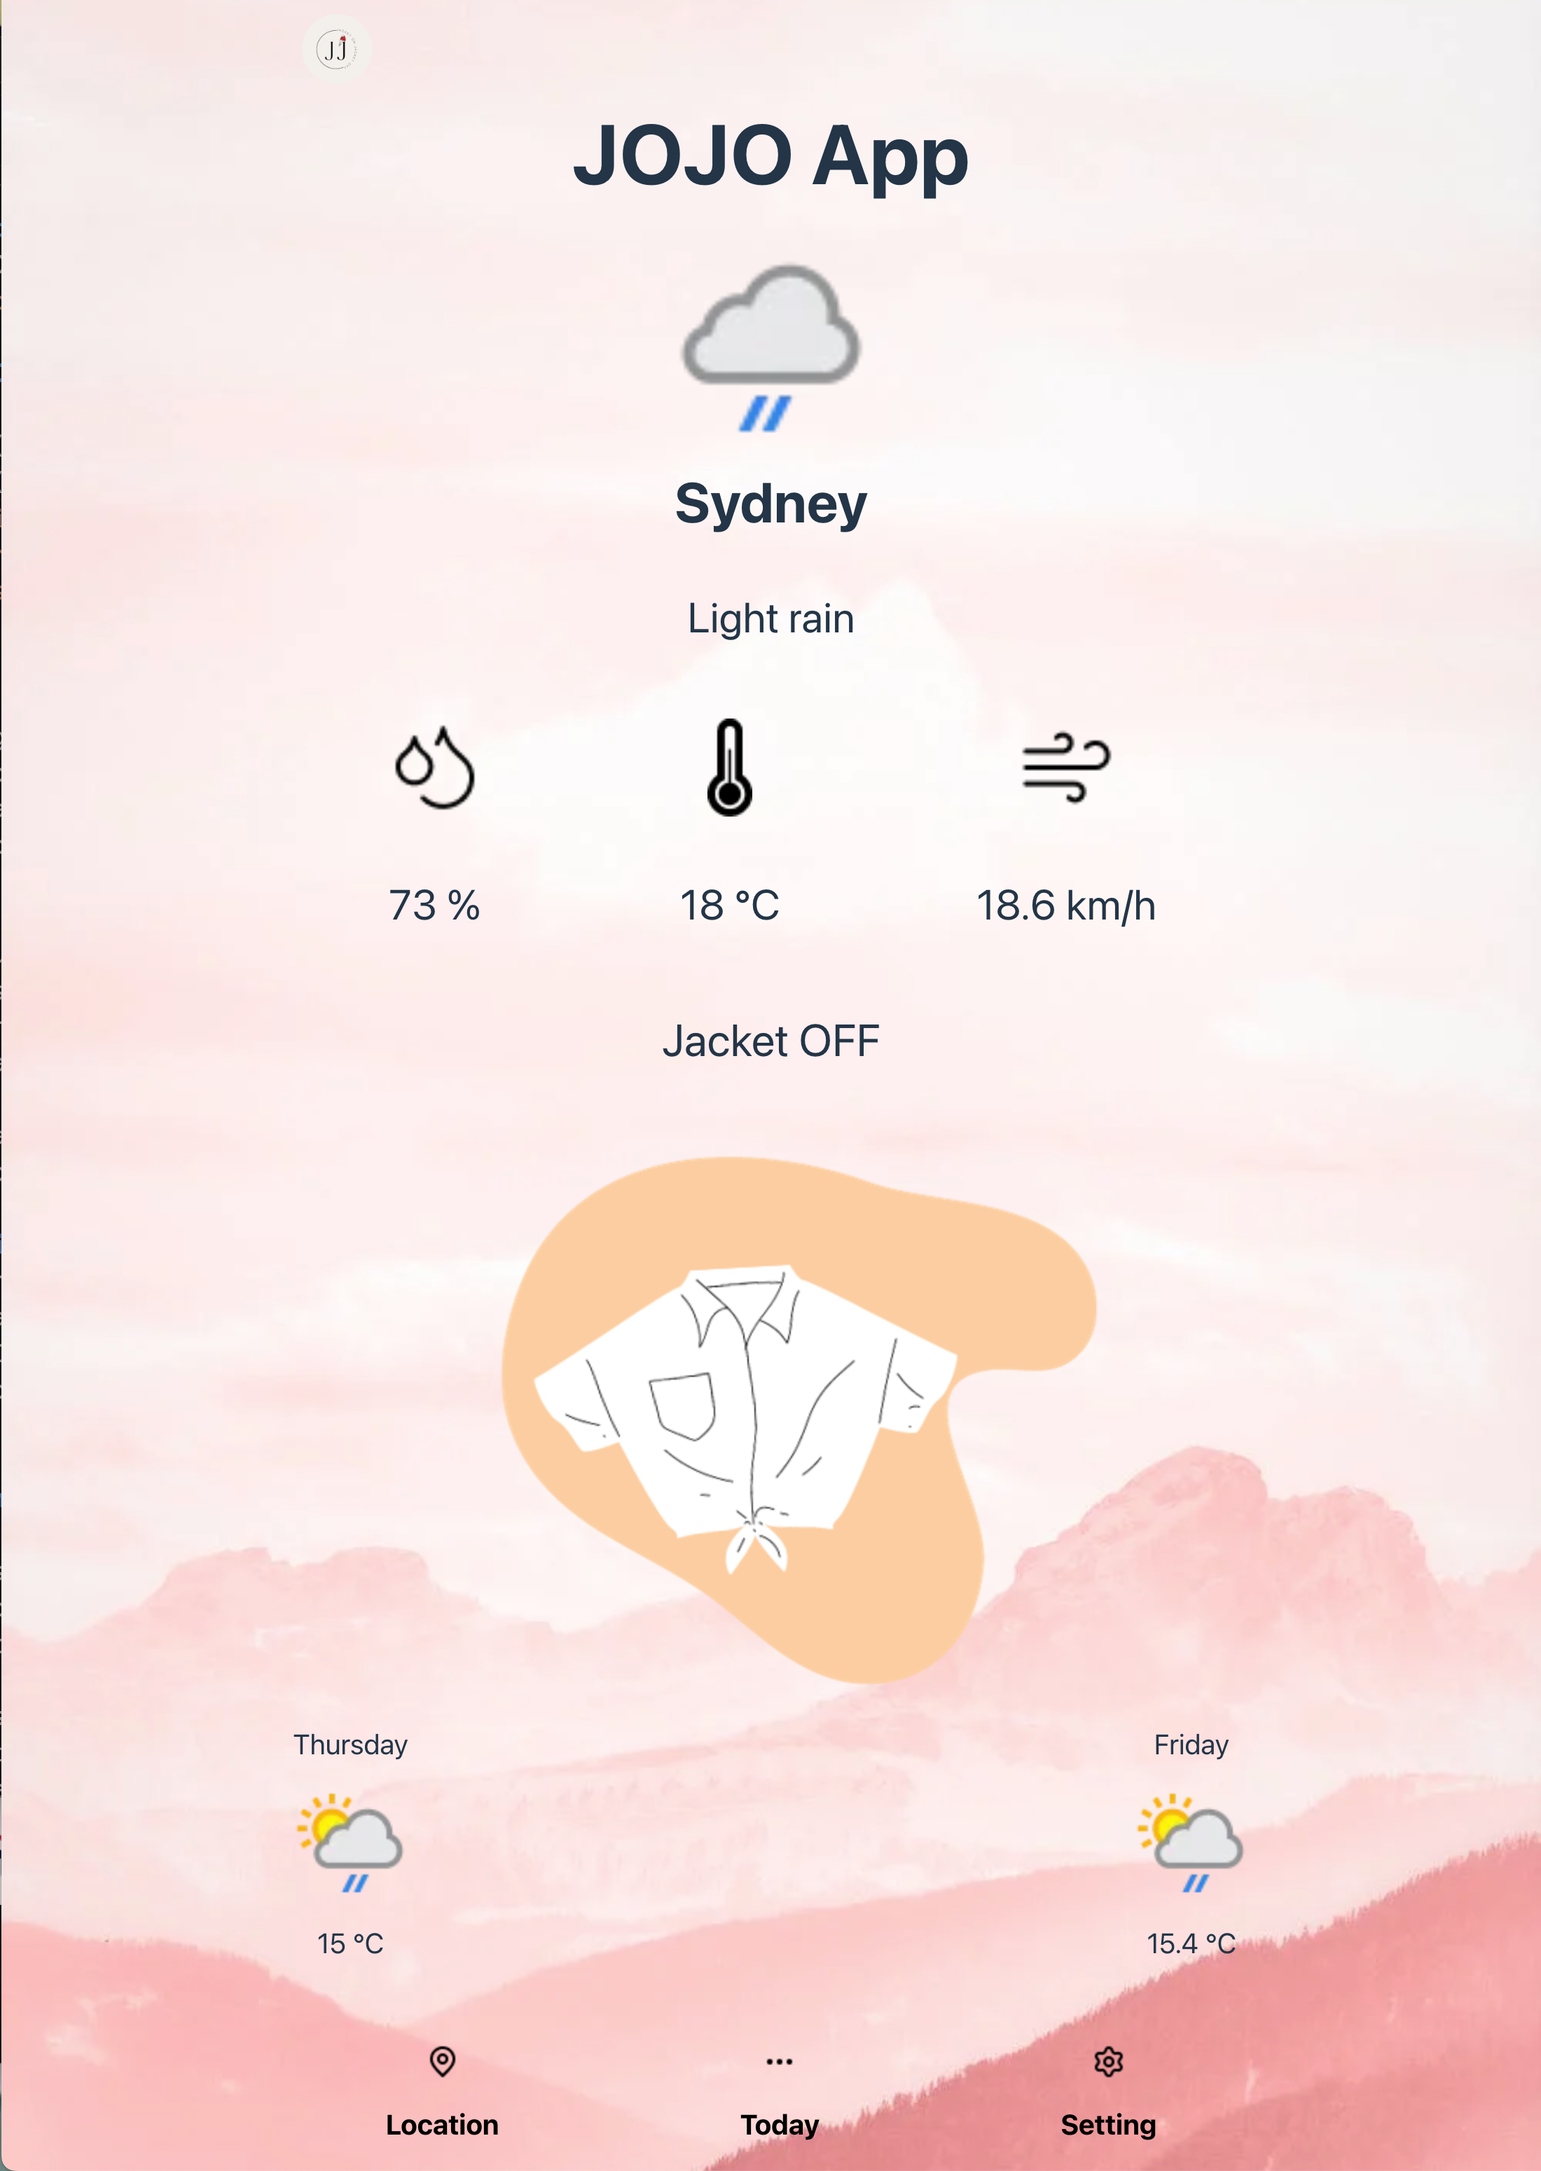
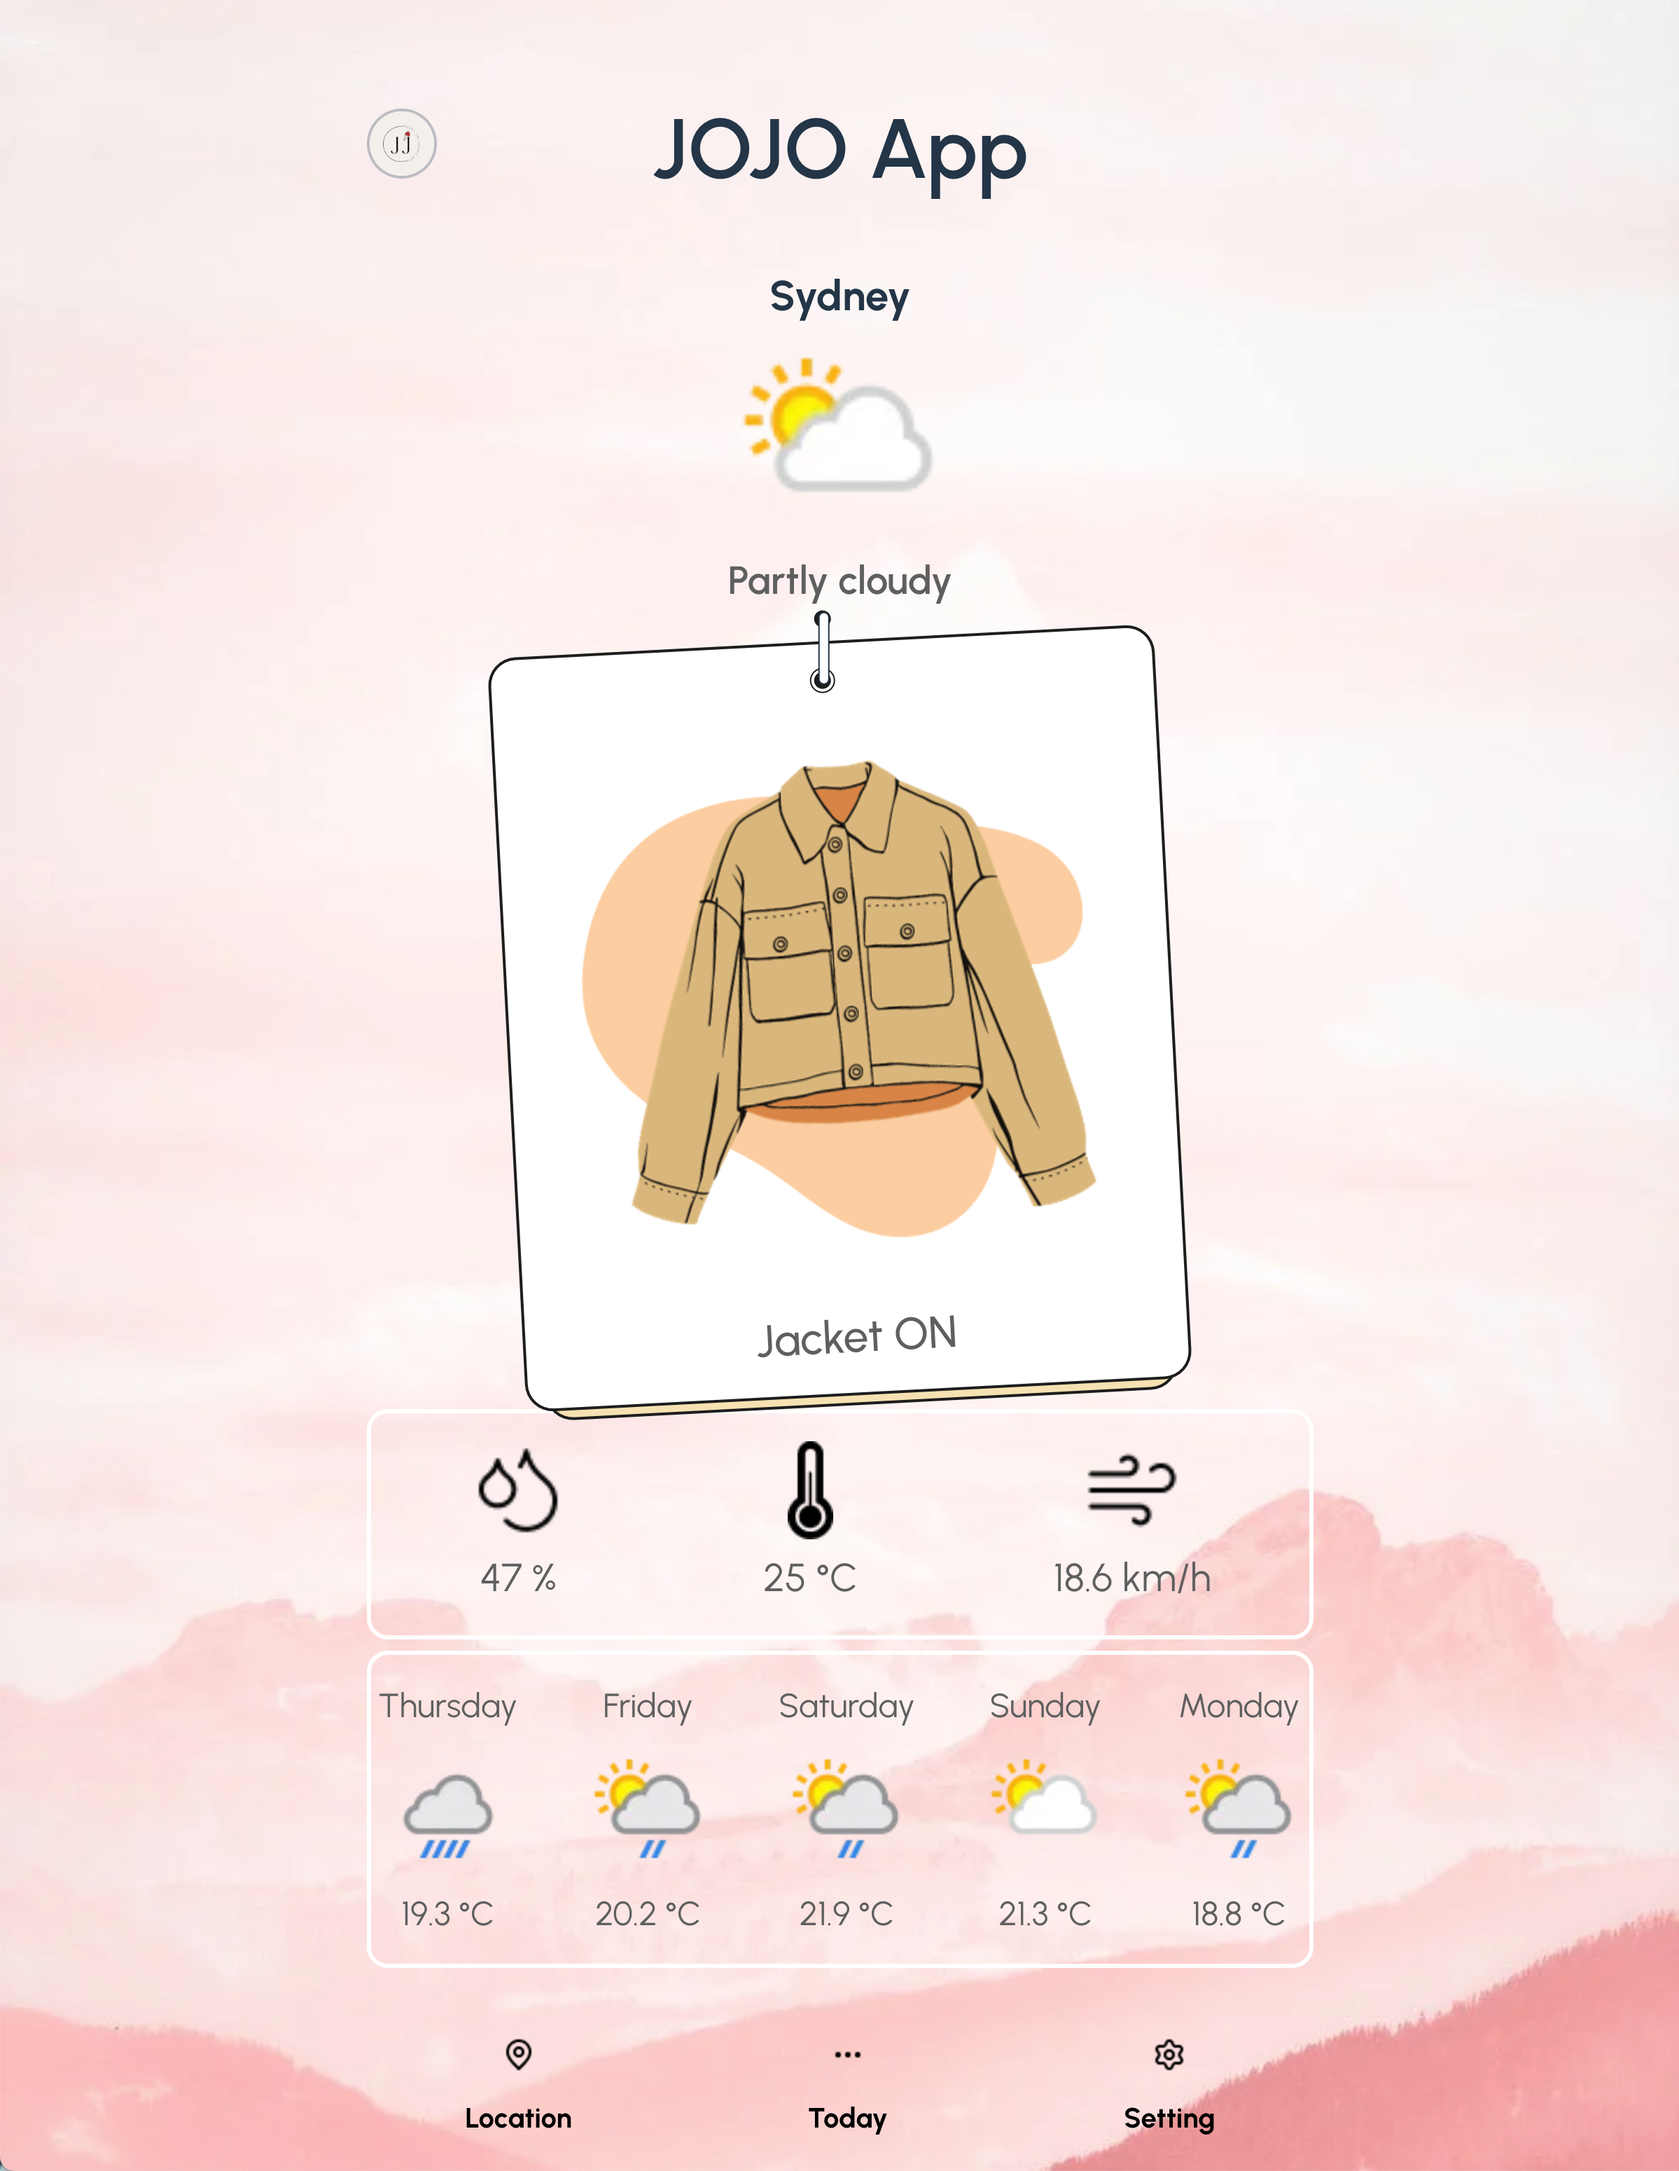
edited README

diff --git a/frontend/src/pages/Today.css b/frontend/src/pages/Today.css
@@ -2,7 +2,7 @@
   display: flex;
   flex-direction: column;
   text-align: center;
-  padding: 2rem;
+  /* padding: 2rem; */
 }
 
 .today-data {
@@ -54,7 +54,7 @@
   display: grid; 
   grid-auto-flow: row dense;
   gap: 1em;
-  grid-template: repeat(4, 1fr) / repeat(3, 1fr);
+  grid-template: repeat(1, 1fr) / repeat(3, 1fr);
 }
 
 .info-card {

diff --git a/frontend/src/pages/Location.css b/frontend/src/pages/Location.css
@@ -2,7 +2,7 @@
   display: flex;
   flex-direction: column;
   text-align: center;
-  padding: 2rem;
+  /* padding: 2rem; */
   backdrop-filter: blur(5px);
 }
 

diff --git a/frontend/src/pages/Search.css b/frontend/src/pages/Search.css
@@ -2,7 +2,7 @@
   display: flex;
   flex-direction: column;
   text-align: center;
-  padding: 2rem;
+  /* padding: 2rem; */
 }
 
 .back-icon img {

diff --git a/frontend/src/pages/Setting.css b/frontend/src/pages/Setting.css
@@ -2,7 +2,7 @@
   display: flex;
   flex-direction: column;
   text-align: center;
-  padding: 2rem;
+  /* padding: 2rem; */
 }
 
 .setting-card {

diff --git a/frontend/src/pages/Alert.css b/frontend/src/pages/Alert.css
@@ -1,7 +1,7 @@
 .alert-section {
   display: flex;
   flex-direction: column;
-  padding: 2rem;
+  /* padding: 2rem; */
 }
 
 .alert-content {

diff --git a/README.md b/README.md
@@ -19,6 +19,10 @@ JOJO is designed to make the decision of wearing a jacket as easy as possible. I
 ### Homepage
 <img width="1328" alt="image" src="frontend/public/homepage.png">
 
+### Manage Location and Search
+<img width="1328" alt="image" src="frontend/public/manage_location.png">
+<img width="1328" alt="image" src="frontend/public/search_location.png">
+
 ### Today-forecast
 <img width="1328" alt="image" src="frontend/public/todayweather.png">
 
@@ -26,6 +30,9 @@ JOJO is designed to make the decision of wearing a jacket as easy as possible. I
 <img width="1328" alt="image" src="frontend/public/preferences.png">
 
 - Retrieve current weather data for the user's location.
+- Request location permissions if using the current location.
+- Allow users to enter a location or use their current location to obtain weather data.
+- Allow users to modify their location.
 - Allow users to modify their preferences in setting.
 - Options for preferences include temperature, humidity, wind speed values.
 - Store user preferences locally.
@@ -39,9 +46,6 @@ JOJO is designed to make the decision of wearing a jacket as easy as possible. I
 
 ## Future Enhancements
 
-- Allow users to enter a location or use their current location to obtain weather data.
-- Request location permissions if using the current location.
-- Allow users to modify their location.
 - Use web notifications API for push notifications.
 - Provide user-friendly location and error messages.
 - Display clear error messages if the weather API is unavailable.
